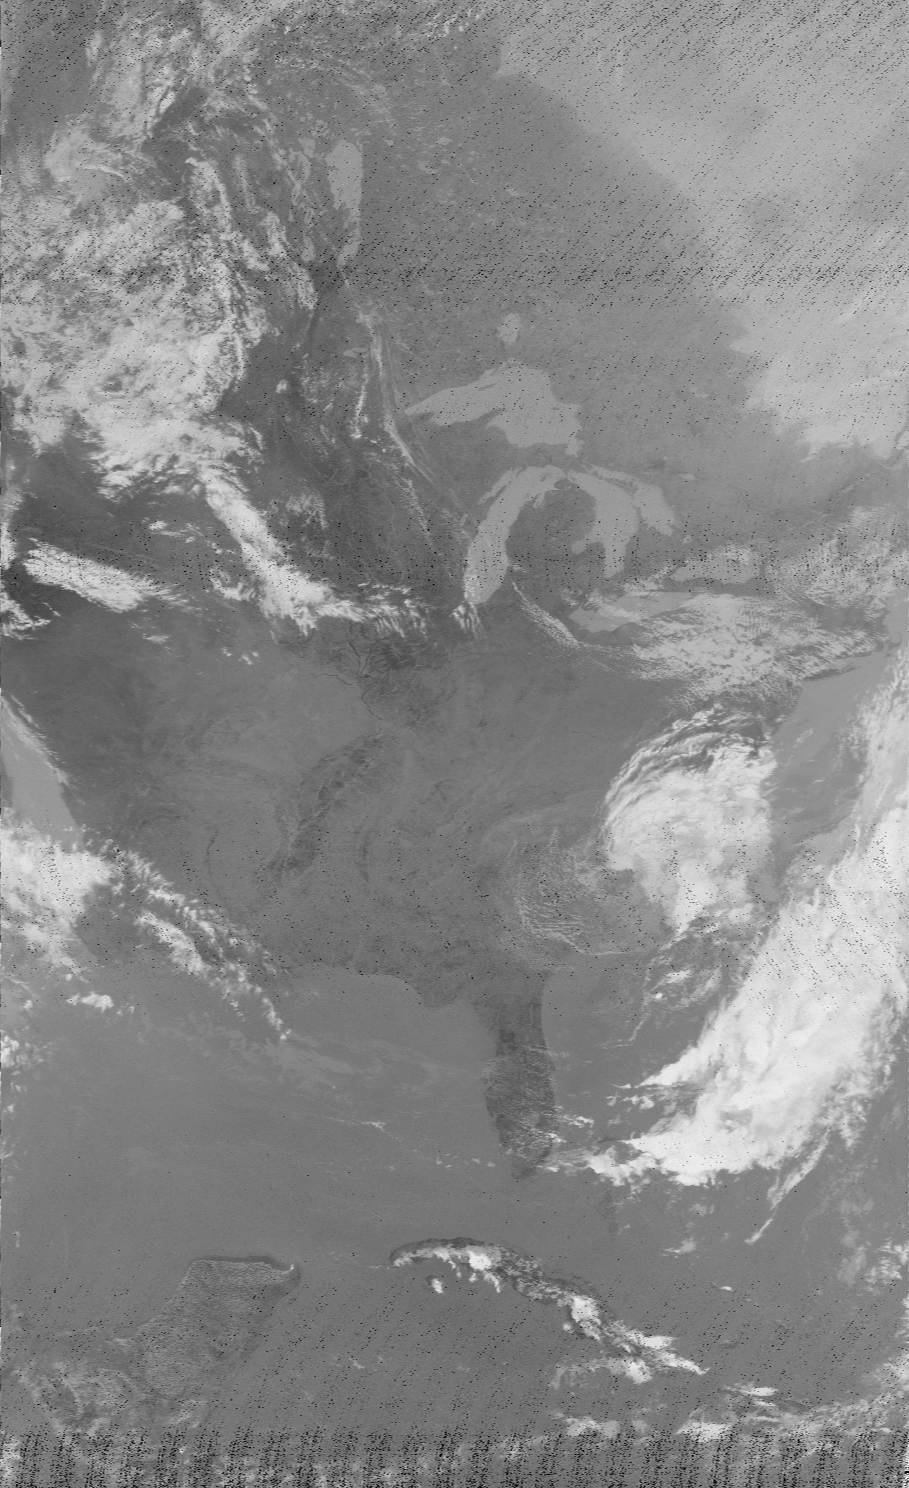
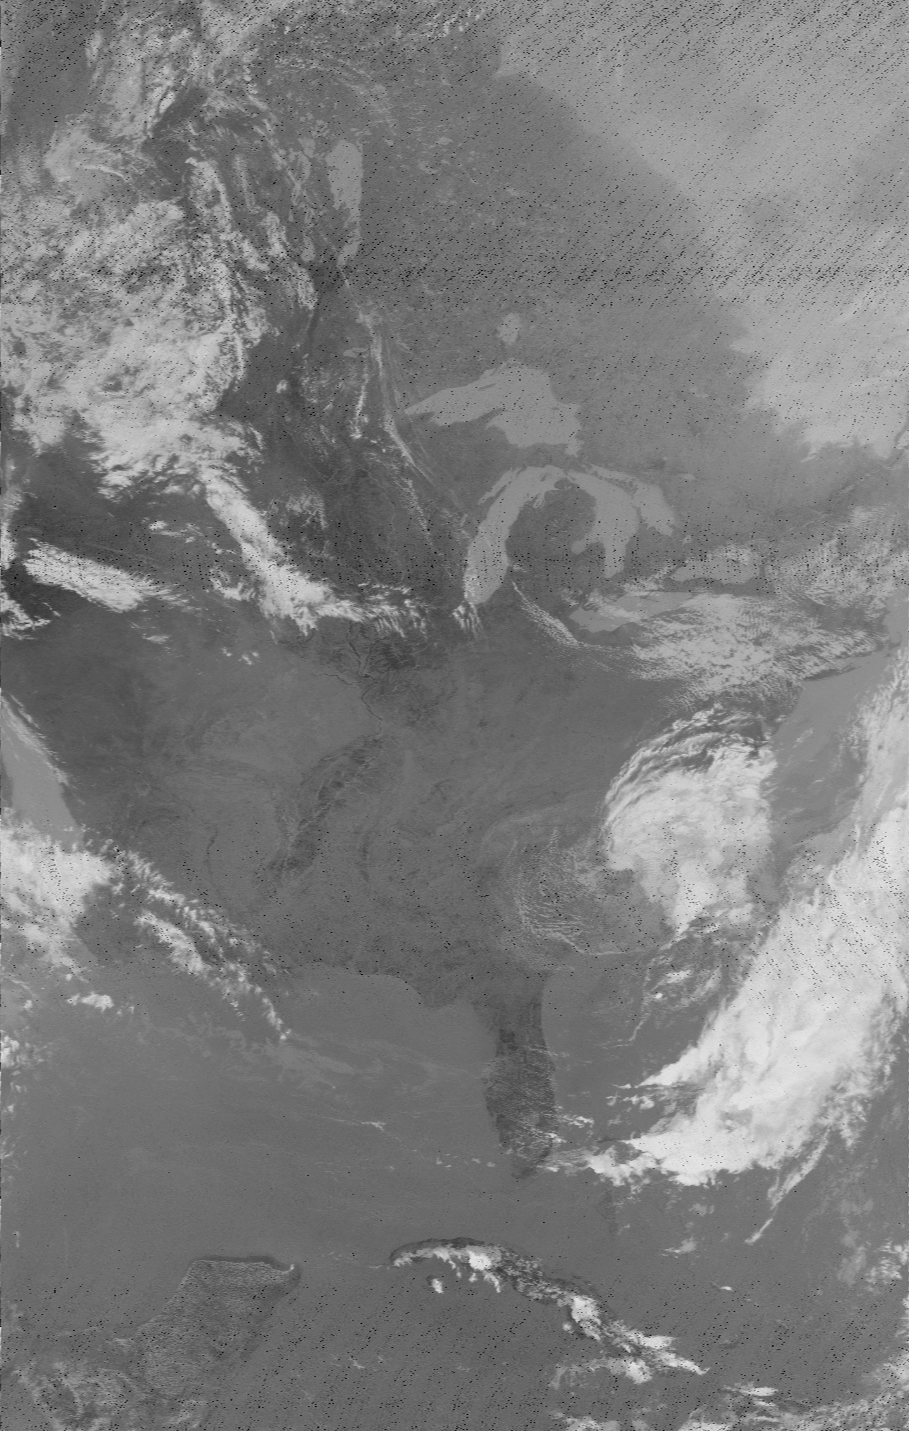
Improved calibration routine accuracy

diff --git a/p.py b/p.py
@@ -1,9 +1,12 @@
+from __future__ import division
+
 import argparse
 import datetime
 import json
 import numpy as np
 import os.path
 import pmt
+import scipy.stats
 import struct
 import sys
 
@@ -62,6 +65,17 @@ def process_tlm(tlm_strip):
     tlm_points = [int(sum(point)/len(point)) for point in grouper(8, tlm_frame, tlm_frame[-1])]
     return tlm_points
 
+def space_view(space_mark_strip):
+    space_view_pixels = [pixel for line in space_mark_strip for pixel in line]
+    hist = np.histogram(space_view_pixels, bins=256)
+    hist_max = np.argmax(hist[0])
+    if hist_max > 127:
+        data = [pixel for pixel in space_view_pixels if pixel > 127]
+    else:
+        data = [pixel for pixel in space_view_pixels if pixel <= 127]
+    data_avg = int(round(np.mean(data)))
+    return data_avg
+
 def closest(val, l):
     '''Determines the closest value from a list to a value
 
@@ -78,7 +92,7 @@ def closest(val, l):
     '''
     return np.abs(np.array(l)-val).argmin()
 
-def avhrr_prt_cal(x, a):
+def avhrr_prt_cal(x, a, eight_bits=True):
     '''NOAA AVHRR PRT Calibration Formula
 
     Args:
@@ -89,6 +103,9 @@ def avhrr_prt_cal(x, a):
         Value of x as a temperature (Kelvin) for a specific AVHRR calibration
         table provided in a.
     '''
+    if eight_bits:
+        x = x * 4
+
     return sum([a[j] * x ** j for j in range(0, 5)])
 
 def avhrr_bb_temp(T, b):
@@ -154,6 +171,7 @@ if spacecraft not in CAL_DATA:
     print('Warning spacecraft {} not found in calibration data. Defaulting to NOAA-19'.format(spacecraft))
     spacecraft = 'NOAA-19'
 
+# Parse the header file to find the SyncA markers
 has_header = os.path.isfile(header_file)
 syncs = []
 if has_header:
@@ -265,37 +283,84 @@ pixels = scale_pixels(pixels, min_sample, max_sample, PIXEL_MIN, PIXEL_MAX)
 sync_ratio = len(syncs)/float(len(pixels))
 
 if sync_ratio > 0.05:
-    print('Processing Telemetry for {}'.format(spacecraft))
+    print('Initial Processing of Telemetry'.format(spacecraft))
     a_tlm = [line[TLM_FRAME_RANGE['A'][0]:TLM_FRAME_RANGE['A'][1]] for line in pixels]
     b_tlm = [line[TLM_FRAME_RANGE['B'][0]:TLM_FRAME_RANGE['B'][1]] for line in pixels]
     a_telemetry = process_tlm(a_tlm)
     b_telemetry = process_tlm(b_tlm)
-    unified_tlm = [sum(x)/2 for x in zip(a_telemetry[0:14], b_telemetry[0:14])]
+    unified_tlm = [int(round(sum(x)/2)) for x in zip(a_telemetry[0:14], b_telemetry[0:14])]
+    telemetry = {'wedges':unified_tlm[0:8], 'zero_mod':unified_tlm[8]}
+
+    # print([telemetry['zero_mod']] + telemetry['wedges'])
+    ideal_curve = [int(255 * (i / len(telemetry['wedges']))) for i in range(len(telemetry['wedges'])+ 1)]
+    data_fit = scipy.stats.linregress(ideal_curve, [telemetry['zero_mod']] + telemetry['wedges'])
+
+    print('Recalibrating based on calibration wedge data')
+    for i, line in enumerate(pixels):
+        for j, pixel in enumerate(line):
+            pixels[i][j] = int(round((pixel - data_fit.intercept) / data_fit.slope))
+
+    pixels = [np.clip(line, 0, 255) for line in pixels]
+
+    print('Reprocessing of Telemetry for {}'.format(spacecraft))
+    a_tlm = [line[TLM_FRAME_RANGE['A'][0]:TLM_FRAME_RANGE['A'][1]] for line in pixels]
+    b_tlm = [line[TLM_FRAME_RANGE['B'][0]:TLM_FRAME_RANGE['B'][1]] for line in pixels]
+    a_telemetry = process_tlm(a_tlm)
+    b_telemetry = process_tlm(b_tlm)
+    unified_tlm = [int(round(sum(x)/2)) for x in zip(a_telemetry[0:14], b_telemetry[0:14])]
     telemetry = {'wedges':unified_tlm[0:8], 'zero_mod':unified_tlm[8],
-                 'thermistors':unified_tlm[9:14], 'a_bb':a_telemetry[14],
-                 'a_channel':a_telemetry[15], 'b_bb':b_telemetry[14],
-                 'b_channel':b_telemetry[15]}
+                 'bb_thermistors':unified_tlm[9:13], 'patch_thermistor':unified_tlm[13],
+                 'a_bb':a_telemetry[14], 'a_channel':a_telemetry[15], 'a_space':0,
+                 'b_bb':b_telemetry[14], 'b_channel':b_telemetry[15], 'b_space':0}
+
+    # print(data_fit.intercept, data_fit.slope)
+    # telemetry['zero_mod'] = int(round((telemetry['zero_mod'] - data_fit.intercept) / data_fit.slope))
+    # print([int(round((wedge - data_fit.intercept) / data_fit.slope)) for wedge in telemetry['wedges']])
+    # print('Ideal:', ideal_curve[1:])
+    # print('Orig :', telemetry['wedges'])
+    # corr_temp = [int(round((wedge - data_fit.intercept) / data_fit.slope)) for wedge in telemetry['wedges']]
+    # print('Corr :', corr_temp)
+    # from itertools import izip
+    # print('I-O  :', [a - b for a, b in izip(ideal_curve[1:], telemetry['wedges'])])
+    # print('I-C  :', [a - b for a, b in izip(ideal_curve[1:], corr_temp)])
+    # telemetry['wedges'] = [int(round((wedge - data_fit.intercept) / data_fit.slope)-telemetry['zero_mod']) for wedge in telemetry['wedges']]
+    #
+    # telemetry['bb_thermistors'] = [int(round((prt - data_fit.intercept) / data_fit.slope)) for prt in telemetry['bb_thermistors']]
+    # telemetry['patch_thermistor'] = int(round((telemetry['patch_thermistor'] - data_fit.intercept) / data_fit.slope))
+    # telemetry['a_bb'] = int(round((telemetry['a_bb'] - data_fit.intercept) / data_fit.slope))
+    # telemetry['b_bb'] = int(round((telemetry['b_bb'] - data_fit.intercept) / data_fit.slope))
 
     telemetry['a_channel'] = closest(telemetry['a_channel'], telemetry['wedges'])
     telemetry['b_channel'] = closest(telemetry['b_channel'], telemetry['wedges'])
-    telemetry['prt_temps'] = [avhrr_prt_cal(telemetry['thermistors'][j], CAL_DATA[spacecraft]['a'][j]) for j in range(0, 4)]
+    telemetry['prt_temps'] = [avhrr_prt_cal(telemetry['bb_thermistors'][j], CAL_DATA[spacecraft]['a'][j]) for j in range(0, 4)]
     telemetry['bb_temp'] = avhrr_bb_temp(telemetry['prt_temps'], CAL_DATA[spacecraft]['b'])
+    telemetry['patch_temp'] = (0.124 * telemetry['patch_thermistor']) + 90.113
     a_info = AVHRR_CHANNELS[str(telemetry['a_channel'])]
     b_info = AVHRR_CHANNELS[str(telemetry['b_channel'])]
 
+    a_space_mark = [line[SPACE_MARK_RANGE['A'][0]:SPACE_MARK_RANGE['A'][1]] for line in pixels]
+    b_space_mark = [line[SPACE_MARK_RANGE['B'][0]:SPACE_MARK_RANGE['B'][1]] for line in pixels]
+    telemetry['a_space'] = space_view(a_space_mark)
+    telemetry['b_space'] = space_view(b_space_mark)
+
     print('Image Information:')
-    print('     Frame A: AVHRR Channel {} - {} - {}'.format(a_info['channel_id'], a_info['type'], a_info['description']))
-    print('     Frame B: AVHRR Channel {} - {} - {}'.format(b_info['channel_id'], b_info['type'], b_info['description']))
-    print('     Wedges: {}'.format(telemetry['wedges']))
-    print('     Zero Mod Ref: {}'.format(telemetry['zero_mod']))
-    print('     A Blackbody: {}'.format(telemetry['a_bb']))
-    print('     B Blackbody: {}'.format(telemetry['b_bb']))
-    print('     PRTs (counts): {}'.format(' '.join(['{:<9}'.format(samp) for samp in telemetry['thermistors']])))
-    print('     PRTs (Kelvin): {}'.format('  '.join(['{:.2f} K'.format(temp) for temp in telemetry['prt_temps']])))
-    print('     Blackbody Ref Temp: {:.2f} K'.format(telemetry['bb_temp']))
+    print('\tFrame A: AVHRR Channel {} - {} - {}'.format(a_info['channel_id'], a_info['type'], a_info['description']))
+    print('\tFrame B: AVHRR Channel {} - {} - {}'.format(b_info['channel_id'], b_info['type'], b_info['description']))
+    print('\tWedges: {}'.format(telemetry['wedges']))
+    print('\tZero Mod Ref: {}'.format(telemetry['zero_mod']))
+    print('\tA Blackbody/Space {} / {}'.format(telemetry['a_bb'], telemetry['a_space']))
+    print('\tB Blackbody/Space: {} / {}'.format(telemetry['b_bb'], telemetry['b_space']))
+    print('\tPRTs (counts): {}'.format(' '.join(['{:<9.0f}'.format(samp) for samp in telemetry['bb_thermistors']])))
+    print('\tPRTs (Kelvin): {}'.format('  '.join(['{:.2f} K'.format(temp) for temp in telemetry['prt_temps']])))
+    print('\tBlackbody Ref Temp: {:.2f} K'.format(telemetry['bb_temp']))
+    print('\tPatch Temp: {:.0f} cnts -- {:.2f} K'.format(telemetry['patch_thermistor'], telemetry['patch_temp']))
+
     print('Image Reception Quality:')
-    print('     Radiometric Resolution Loss: {:.2f}%'.format((1-((telemetry['wedges'][-1]-telemetry['zero_mod'])+1)/256.0)*100))
-    print('     Syncs/Lines Ratio: {} / {} - {:.0f}%'.format(len(syncs), len(pixels), sync_ratio * 100))
+    print('\tSyncs ({})/Lines ({}) Ratio: {:.2%}'.format(len(syncs), len(pixels), sync_ratio))
+    print('\tCalibration Linearity: {:.4%}'.format(data_fit.rvalue))
+
+    # print('Calibrating data to AVHRR original 8-bit counts')
+
 
 raw_images = {}
 raw_images['F'] = pixels
